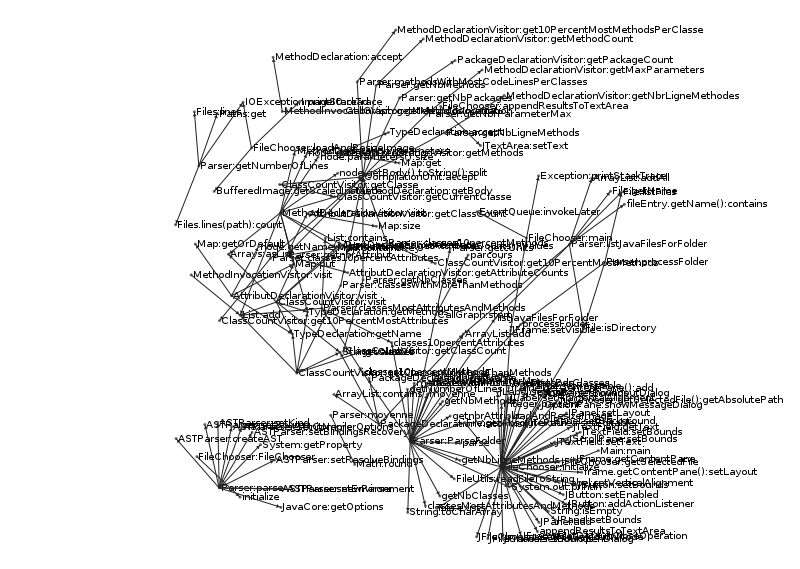
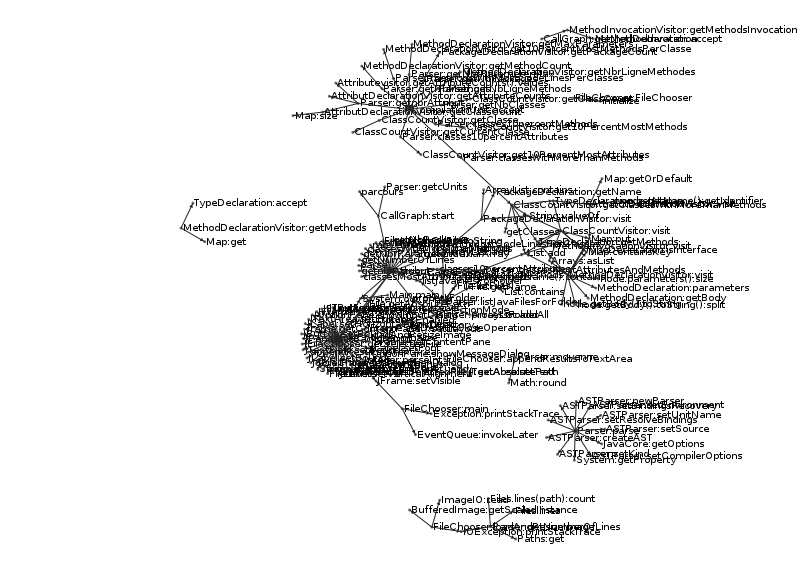
[dev-yoann] ajout graphe

Changed region(s): [[0.2188, 0.0299, 1.0, 0.9561]]

diff --git a/TP1/tp1.ast/src/main/java/org/example/graph/MainGraph.java b/TP1/tp1.ast/src/main/java/org/example/graph/MainGraph.java
@@ -15,7 +15,7 @@ import org.graphstream.ui.view.Viewer;
 
 public class MainGraph {
 
-    public static void main(String[] args) throws IOException{
+    public static void main(String[] args) throws IOException, InterruptedException {
         System.setProperty("org.graphstream.ui", "swing");
         // Projet à tester
         CallGraph graph = new CallGraph("/home/reyne/Bureau/evolution_logiciels/TP1/tp1.ast");
@@ -52,15 +52,14 @@ public class MainGraph {
 //            System.out.println(node1Name+"=>"+node2Name);
 
             Edge edgeAB = graphDisplay.getEdge(node1Name+node2Name);
-
             if(edgeAB == null){
-                graphDisplay.addEdge(node1Name+node2Name, node1, node2, true);
+                Edge e = graphDisplay.addEdge(node1Name+node2Name, node1, node2, true);
+                e.addAttribute("layout.weight", 3);
             }
         });
-
         // Affichez le graphe (facultatif)
         graphDisplay.addAttribute("ui.stylesheet", "node {\n" +
-                "\tsize: 3px;\n" +
+                "\tsize: 2px;\n" +
                 "\tfill-color: #777;\n" +
                 "\tz-index: 0;\n" +
                 "}\n" +
@@ -69,12 +68,11 @@ public class MainGraph {
                 "\tshape: line;\n" +
                 "\tfill-mode: dyn-plain;\n" +
                 "\tfill-color: #222;\n" +
-                "\tarrow-size: 3px, 2px;\n" +
+                "\tarrow-size: 3px, 4px;\n" +
                 "}\n");
         graphDisplay.addAttribute("ui.quality");
         graphDisplay.addAttribute("ui.antialias");
         graphDisplay.display();   // No auto-layout.
-        graphDisplay.addAttribute("ui.screenshot", "screenshot.png");
 
     }
 
